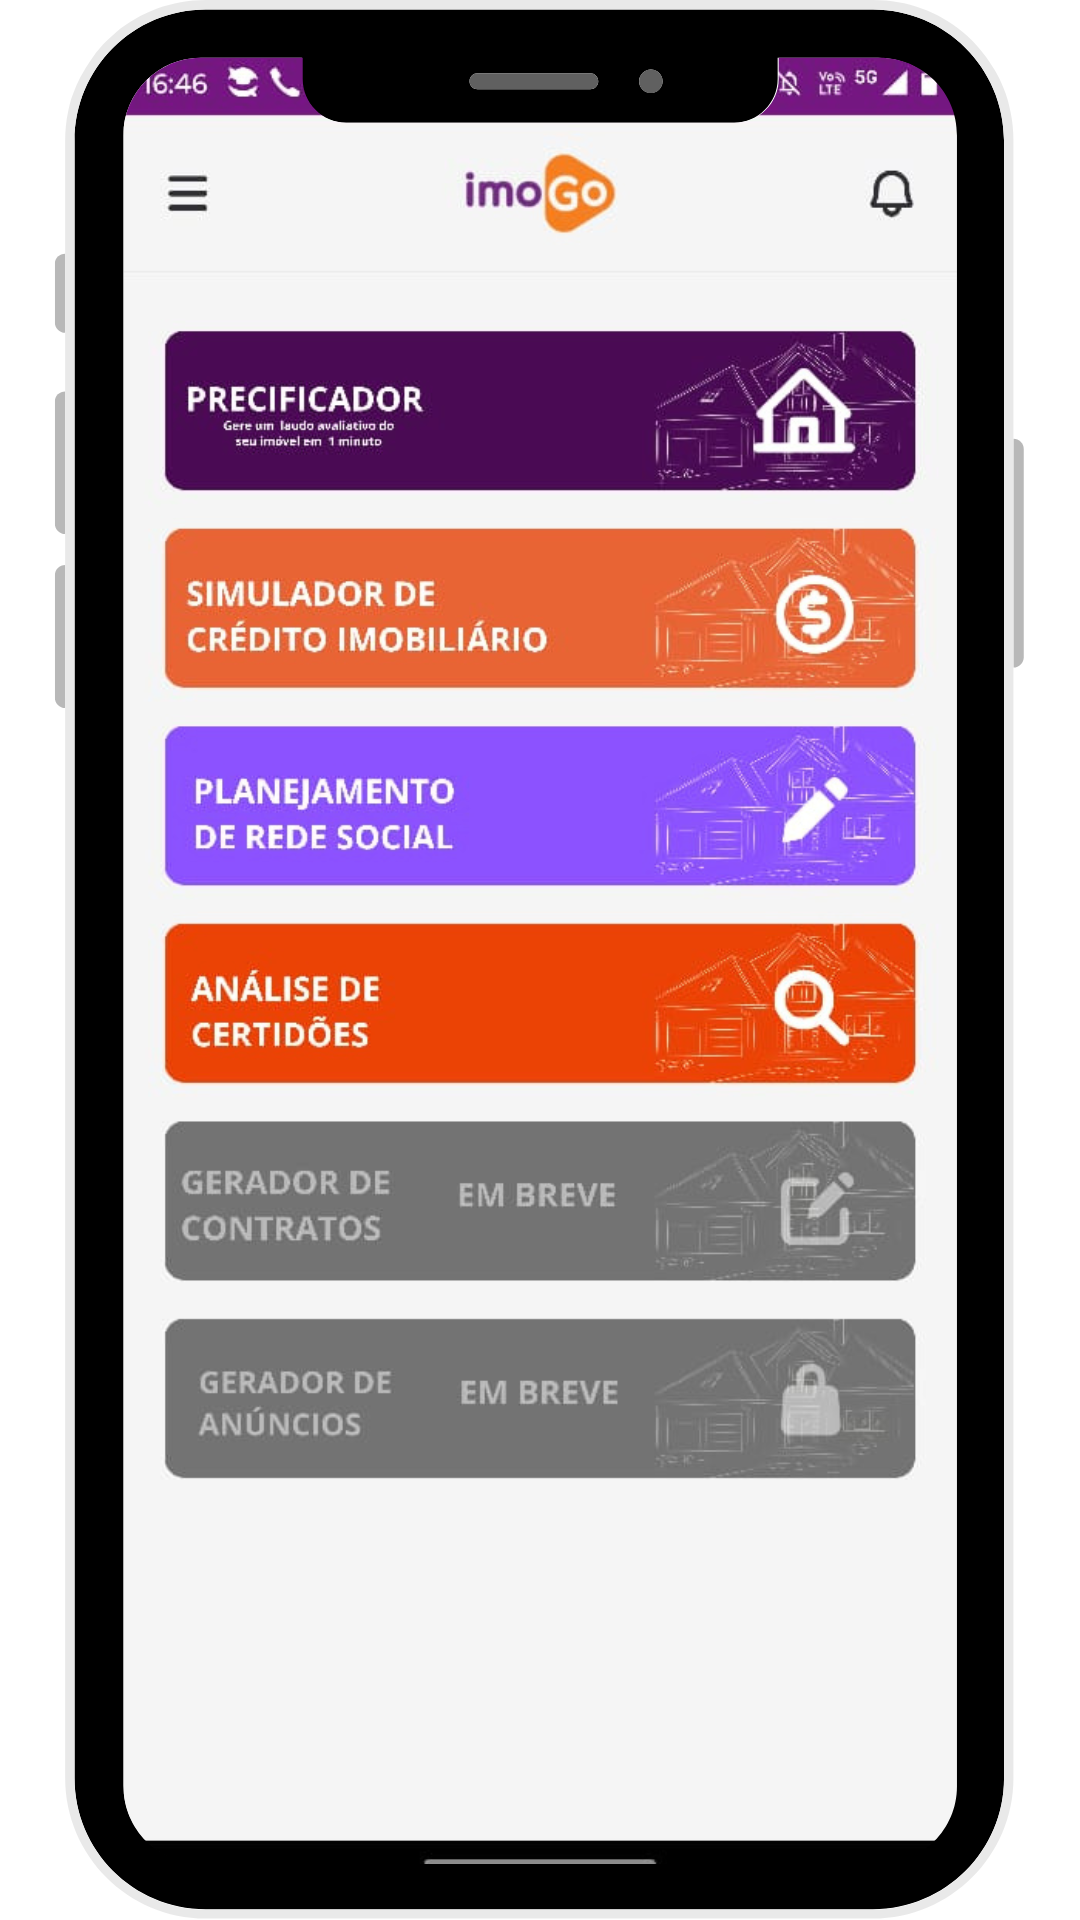
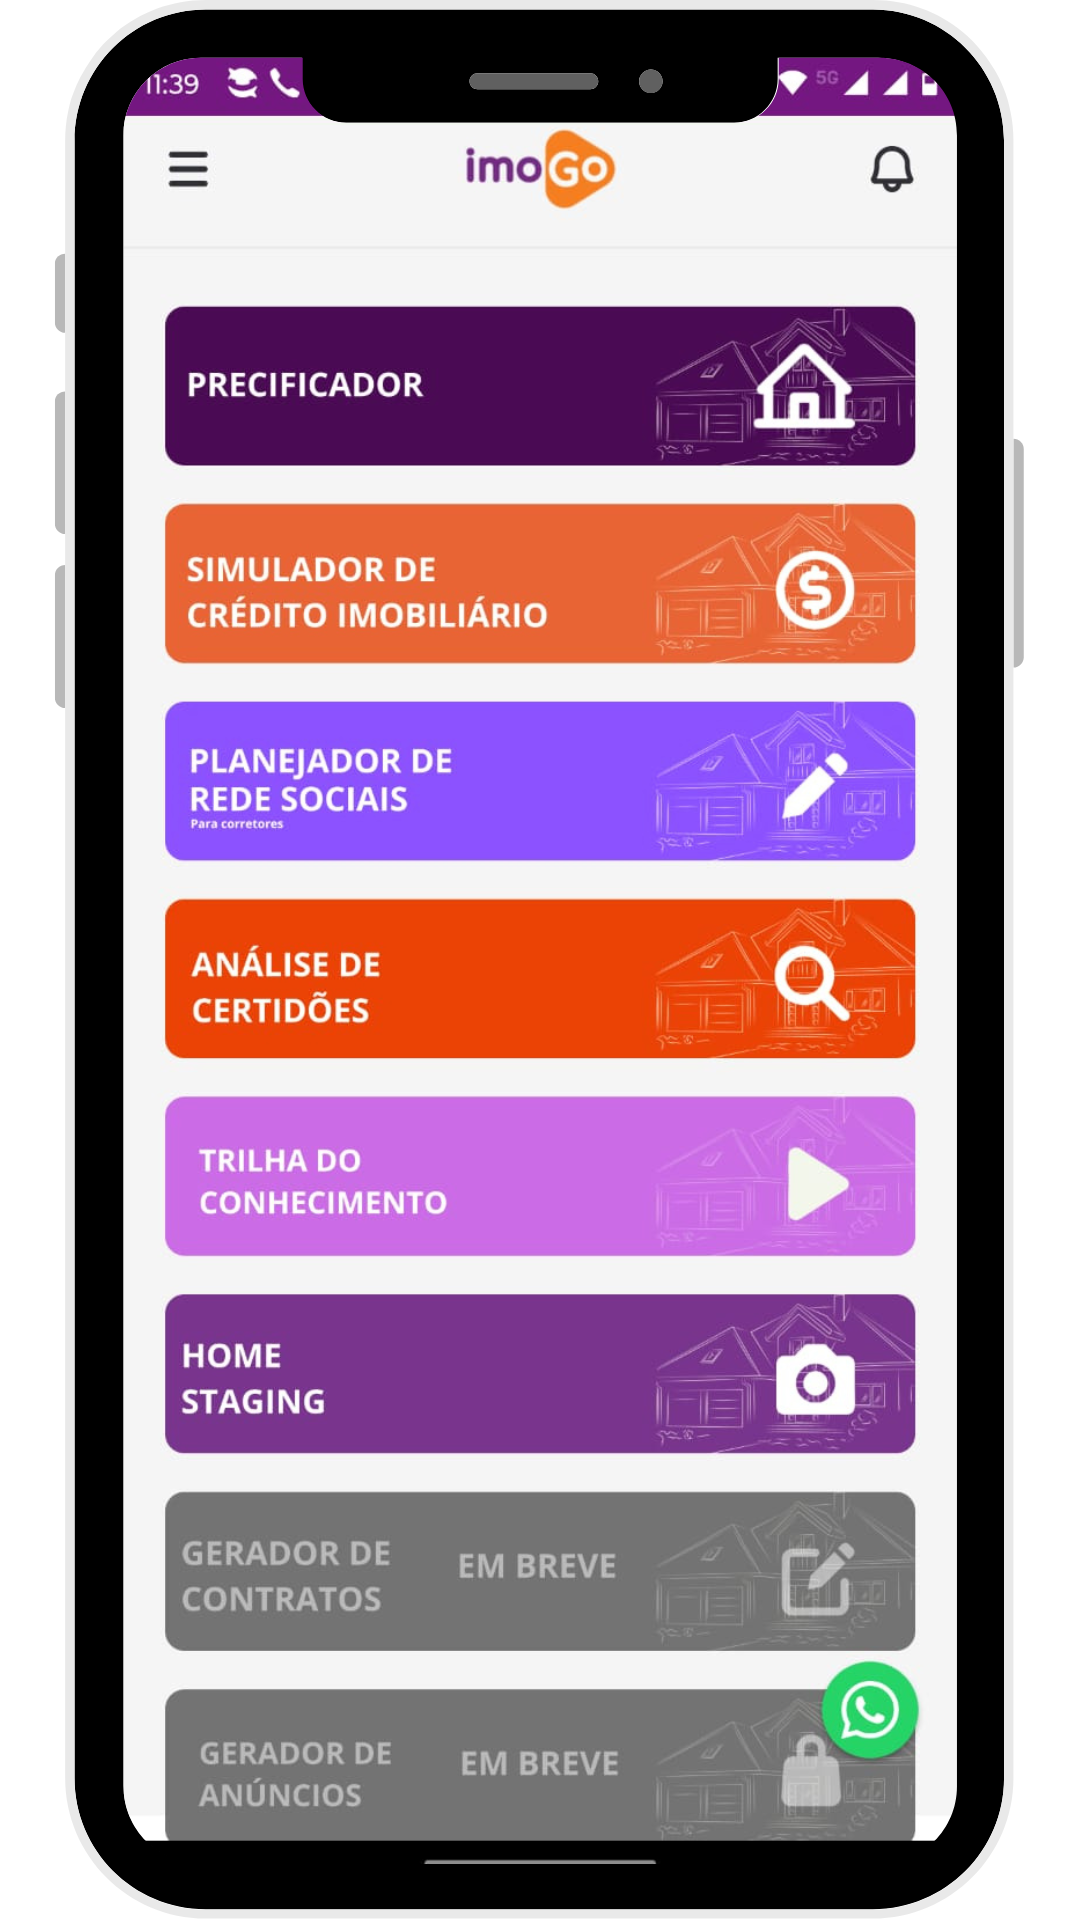
[11/03] Ajuste LP ( Atualização dos prints )

diff --git a/index.html b/index.html
@@ -352,8 +352,8 @@
 										<!-- Content -->
 										<div class="content mt-3">
 											<h4 class="mt-0 mb-3">Simulador de crédito Imobiliário </h4>
-											<p class="mt-3">Faça simulações rápidas e descomplicadas para facilitar a
-												comparação das taxas de juros e dos prazos.</p>
+											<p class="mt-3">Faça simulações rápidas para facilitar a
+												comparação de taxas e prazos.</p>
 										</div>
 									</div>
 								</a>
@@ -367,13 +367,27 @@
 										<img class="avatar-sm" src="assets/img/content/icon-3.png" alt="">
 										<!-- Content -->
 										<div class="content mt-3">
-											<h4 class="mt-0 mb-3">Planejamento de rede social</h4>
-											<p class="mt-3">Planeje e automatize publicações para destacar imóveis nas
-												redes
-												sociais.</p>
+											<h4 class="mt-0 mb-3" >Planejamento de rede social</h4>
+											<p class="mt-3">Planeje e automatize publicações para se destacar nas redes sociais.</p>
 										</div>
 									</div>
 								</a>
+							</li>
+							<li class="item list-group-item border-0">
+								<a href="https://app.imogo.com.br/" style="color: black;" target="_blank">
+									<!-- Image Box -->
+									<div class="image-box layout-2 px-3 py-0 wow fadeInRight" data-aos-duration="2s"
+										data-wow-delay="0.9s"
+										style="visibility: visible; animation-delay: 0.9s; animation-name: fadeInRight;">
+										<img class="avatar-sm" src="assets/img/content/icon-8.png" alt="">
+										<!-- Content -->
+										<div class="content mt-3">
+											<h4 class="mt-0 mb-3">Tilha do conhecimento</h4>
+											<p class="mt-3">Fique por dentro das melhores práticas do mercado imobiliário! Aprimore suas habilidades e se diferencie.</p>
+										</div>
+									</div>
+								</a>
+
 							</li>
 						</ul>
 					</div>
@@ -415,7 +429,7 @@
 										<div class="content mt-3">
 											<h4 class="mt-0 mb-3">Gerador de contratos</h4>
 											<p class="mt-3">Gere contratos com modelos validados em poucos minutos para
-												serem assinados digitalmente..</p>
+												serem assinados digitalmente.</p>
 										</div>
 									</div>
 								</a>
@@ -437,6 +451,23 @@
 								</a>
 
 							</li>
+							<li class="item list-group-item border-0">
+								<a href="https://app.imogo.com.br/" style="color: black;" target="_blank">
+									<!-- Image Box -->
+									<div class="image-box layout-2 px-3 py-0 wow fadeInRight" data-aos-duration="2s"
+										data-wow-delay="0.9s"
+										style="visibility: visible; animation-delay: 0.9s; animation-name: fadeInRight;">
+										<img class="avatar-sm" src="assets/img/content/icon-7.png" alt="">
+										<!-- Content -->
+										<div class="content mt-3">
+											<h4 class="mt-0 mb-3">Home Staging</h4>
+											<p class="mt-3">Decore digitalmente os seus imóveis, criando imagens realistas e atraentes para vender mais.</p>
+										</div>
+									</div>
+								</a>
+								<br>
+							</li>
+							
 						</ul>
 					</div>
 				</div>
@@ -457,7 +488,9 @@
 									<img src="assets/img/content/screenshot-3.png" alt="Imagem 3">
 									<img src="assets/img/content/screenshot-4.png" alt="Imagem 4">
 									<img src="assets/img/content/screenshot-5.png" alt="Imagem 5">
-									<img src="assets/img/content/screenshot-6.png" alt="Imagem 5">
+									<img src="assets/img/content/screenshot-6.png" alt="Imagem 6">
+									<img src="assets/img/content/screenshot-7.png" alt="Imagem 7">
+									<img src="assets/img/content/screenshot-8.png" alt="Imagem 8">
 								</div>
 
 								<div class="tracinhos mt-4">
@@ -467,6 +500,8 @@
 									<span class="tracinho" data-index="3"></span>
 									<span class="tracinho" data-index="4"></span>
 									<span class="tracinho" data-index="5"></span>
+									<span class="tracinho" data-index="6"></span>
+									<span class="tracinho" data-index="7"></span>
 								</div>
 							</div>
 
@@ -504,7 +539,7 @@
 									<div class="icon layout-2 align-items-start mt-1 me-2">
 										<span class="material-symbols-outlined">task_alt</span>
 									</div>
-									<span>Acesso gratuito por tempo indeterminado.</span>
+									<span>Acesso gratuito.</span>
 								</li>
 
 
